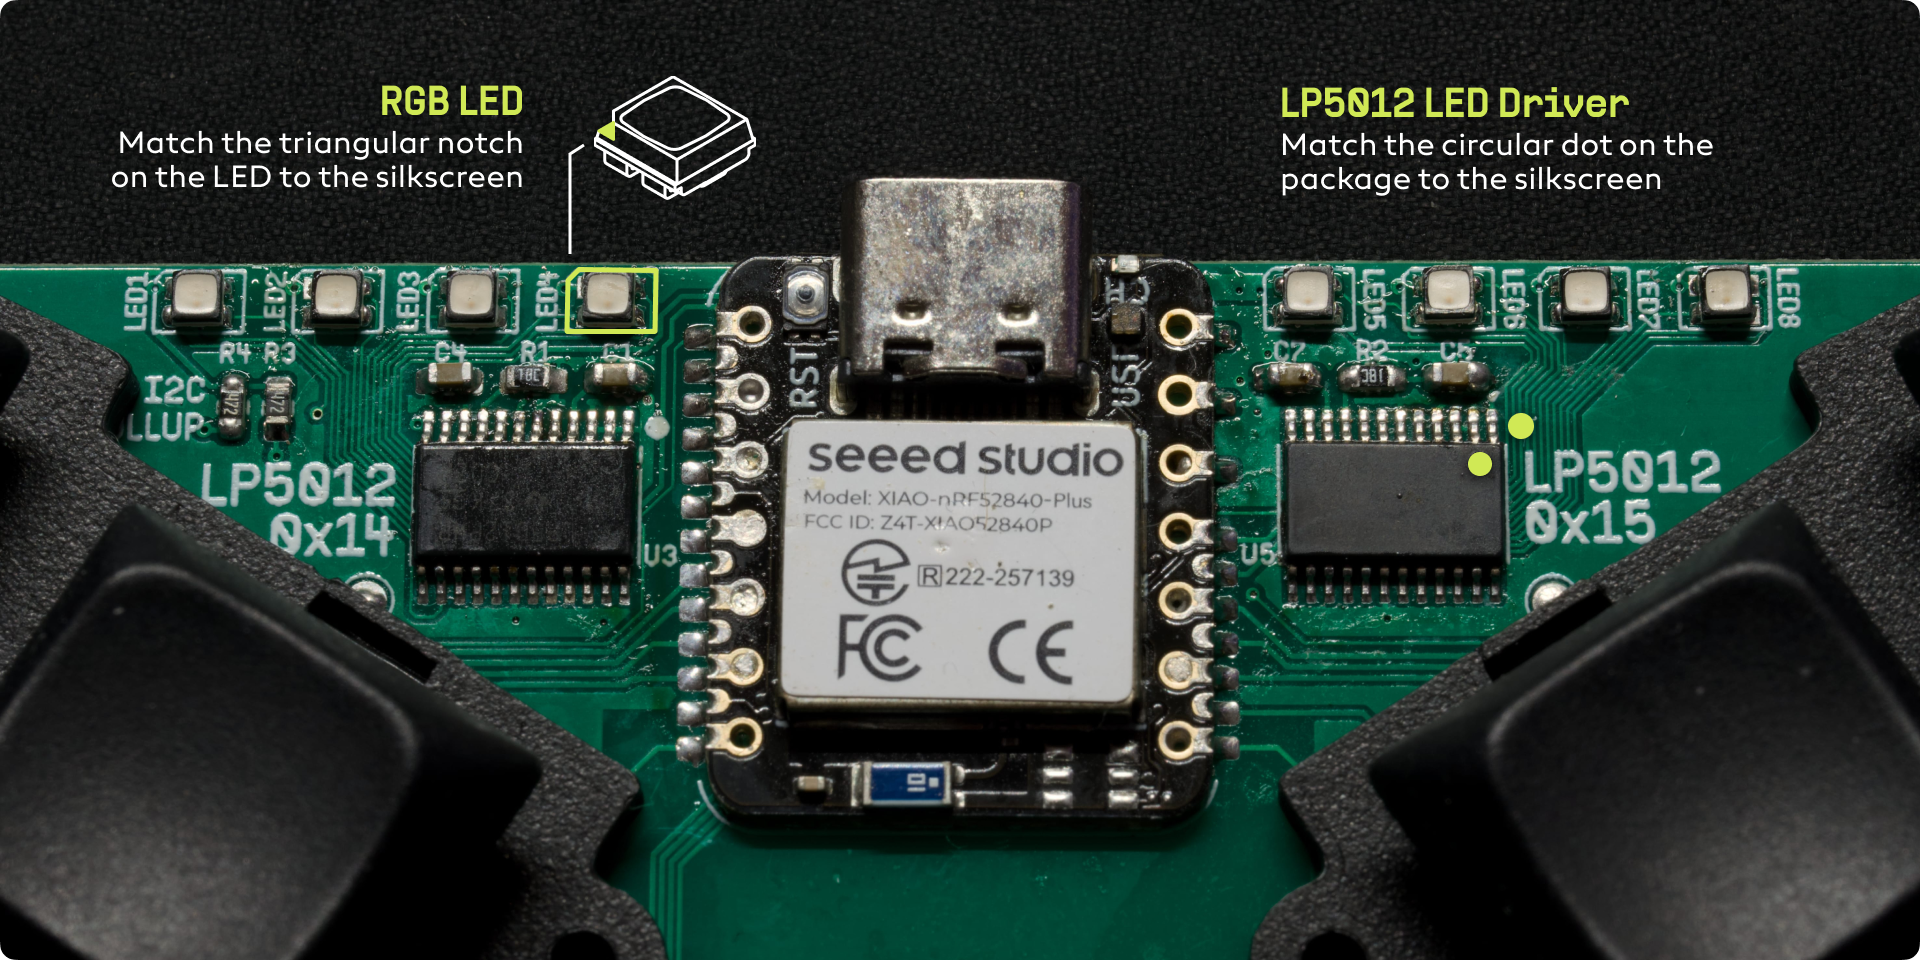
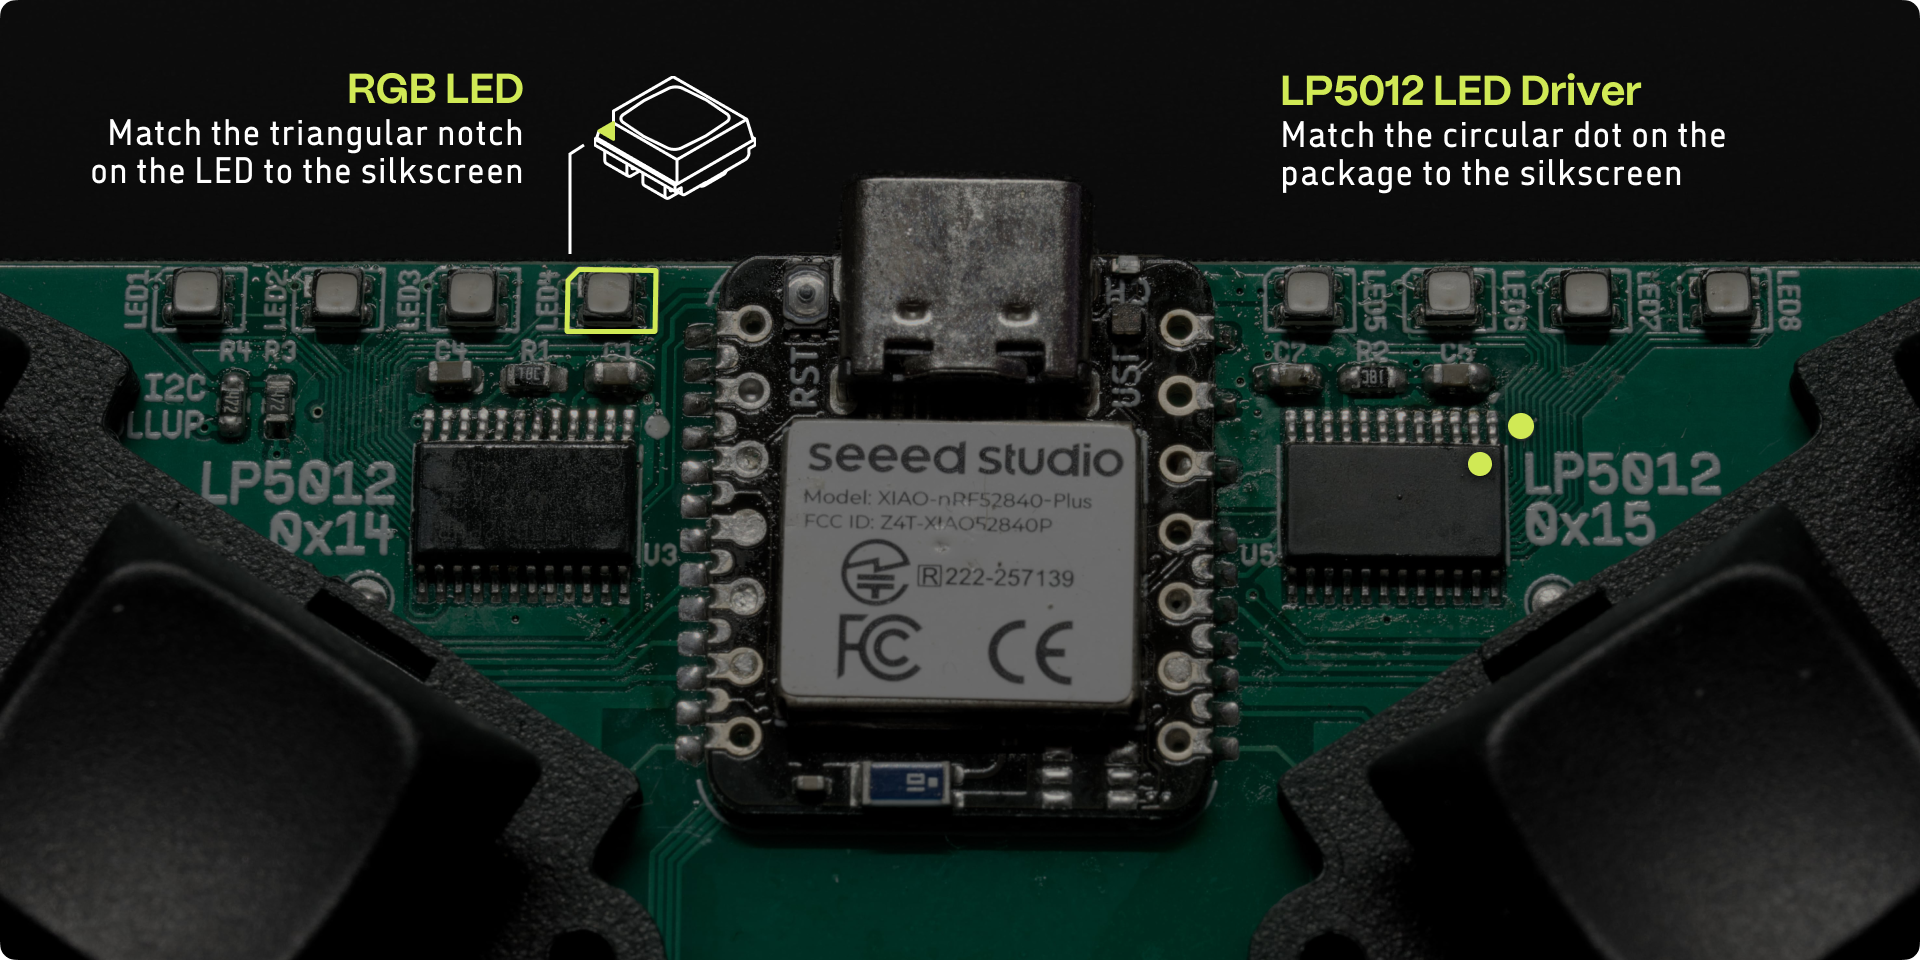
update readme & docs

diff --git a/README.md b/README.md
@@ -1,12 +1,7 @@
-<picture>
-  <source media="(prefers-color-scheme: dark)" srcset="./docs/images/visorbearer-heading-dark.png">
-  <source media="(prefers-color-scheme: light)" srcset="./docs/images/visorbearer-heading-light.png">
-  <img alt="Visorbearer Title and Description" src="./docs/images/visorbearer-heading-dark.png">
-</picture>
-
 ![Visorbearer keyboard](docs/images/visorbearer-hero.png)
 
-https://github.com/user-attachments/assets/812049e3-29ce-48d4-8fe3-20bf21285e64
+
+# Visorbearer
 
 Visorbearer is a 32-key unibody split wireless keyboard featuring 8 RGB LED indicators.
 
@@ -28,14 +23,16 @@ Named after [hummingbirds in the genus Augastes](https://en.wikipedia.org/wiki/V
 
 ## Design
 
-- 32-key Hummingbird-ish layout with splay and inverted thumb cluster
-   - Down to 26-key with case and plate variants
-      - 2U thumb key support
+https://github.com/user-attachments/assets/812049e3-29ce-48d4-8fe3-20bf21285e64
+
 - 2x 4-segment RGB LED indicators
    - Discreet dead-front design: completely invisible when off
    - Connection bar: Bluetooth profiles and modifier keys
    - Battery bar: percentage and charging status
    - Powered by two TI LP5012 drivers with automatic low-power mode
+- 32-key Hummingbird-ish layout with splay and inverted thumb cluster
+   - Down to 26-key with case and plate variants
+      - 2U thumb key support
 - Hot-swap Kailh Choc v1 switches in Choc (18x17mm) spacing
    - <details> <summary>Limited Choc v2 compatibility</summary>
       The PCB is incompatible with older Choc v2 switches that have a third stabilizing pin. Newer Choc v2 releases without this pin work fine, such as: Lofree POM Phantom/Ghost/Specter/Hades and Kailh Hide Mountain/White Rain/Deep Sea Mini Islet/Deep Sea Mini Whale. Note that choc-spaced keycaps with MX stems are not commercially available, so Choc v2 switches are limited to 3D-printed keycaps.

diff --git a/docs/case-printing.md b/docs/case-printing.md
@@ -30,6 +30,7 @@ Only neutral shades (black and grey) will display LED colors cleanly without tin
 | Overture Matte PLA Black | Very opaque; still quite dim at 0.06mm. |  |
 | Sunlu PLA Matte Black | Almost 100% opaque, doesn’t work at all. |  |
 | Elegoo/Deeplee Matte PLA Black | Lets through quite a bit of light; I use 0.12mm. | Shows stress marks. |
+| Bambu Lab PLA Basic Dark Grey | Works well at 0.12mm. |  |
 | Bambu Lab PLA Matte Nardo Grey | Works well at 0.1mm. |  |
 | Elegoo/Deeplee Matte PLA Grey | Too translucent even at 0.12mm; might work at 0.2mm. The translucency gives it a nice soft-edged look though. |  |
 
